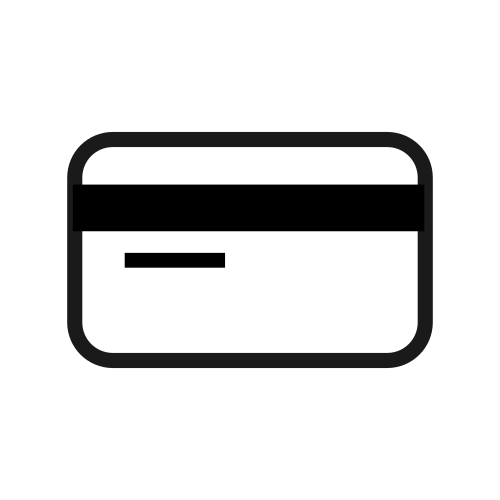
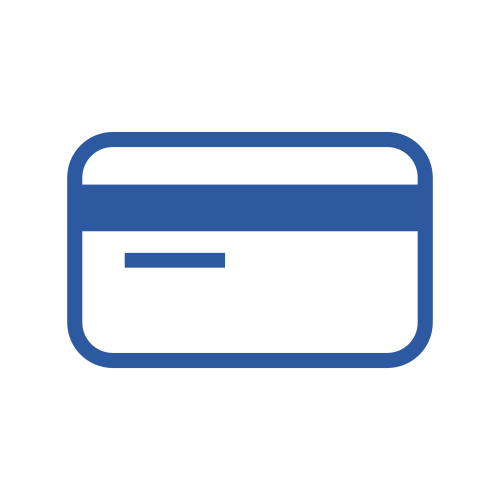
Added Changes

Changed region(s): [[0.12, 0.24, 0.87, 0.75]]

diff --git a/index.html b/index.html
@@ -13,7 +13,9 @@
 
 
             <nav class="navbar navbar-expand-lg navbar-light fixed-top bg-light">
-                    <a class="navbar-brand" href="#">Logo</a>
+                    <a class="navbar-brand" href="#">
+                      <img src="logo.png" style="width:290px"/>
+                    </a>
                     <button class="navbar-toggler" type="button" data-toggle="collapse" data-target="#navbarSupportedContent" aria-controls="navbarSupportedContent" aria-expanded="false" aria-label="Toggle navigation">
                       <span class="navbar-toggler-icon"></span>
                     </button>
@@ -49,7 +51,7 @@
                         <h1 class="tagline">Why Buy When You Can Rent</h1>
                         <div class="details-bg">
                             <p class="details">
-                                Call Us @ 999999XXXX
+                                Call Us @ 8510000005
                             </p>
                         </div>
                     </div>
@@ -57,25 +59,40 @@
 
                 <div class="statements-container">
 
-                    <h4 class="alert alert-dark p-4 m-4">For any equiry or placing order, call on : 8104855903</h4>
+                    <h4 class="alert alert-dark p-4 m-4">For any equiry or placing order, call on : <a href="tel:8510000005">8510000005</a></h4>
 
-                    <h4 class="alert alert-dark p-4 m-4">For purchasing any equipment or any surgical product : 8928335161</h4>
+                    <!-- <h4 class="alert alert-dark p-4 m-4">For purchasing any equipment or any surgical product : <a href="tel:8510000005">8510000005</a></h4> -->
 
                 </div>
 
 
 
-                <div class="product-container">
+                <div class="product-container container-fluid">
                     <h2 class="text-center pt-5" style="color:#525252">Our Product</h2>
-                    <div class="d-flex justify-content-center p-5">
-                    <div class="card" style="width: 18rem;">
-                            <img src="product_1.jpg" class="card-img-top" alt="...">
-                            <div class="card-body">
-                                <h5 class="card-title"> Dinstar GSM Gateway</h5>
-                              <p class="card-text">Some quick example text to build on the card title and make up the bulk of the card's content.</p>
-                            </div>
+                    <div class="row p-5">
+                      <div class="col-md-4 offset-md-2 d-flex justify-content-center mb-4">
+                        <div class="card" style="width: 18rem;">
+                              <img src="product_1.png" class="card-img-top" alt="...">
+                              <div class="card-body">
+                                  <h5 class="card-title text-center">GSM Gateway</h5>
+                            
+                              </div>
+                        </div>
+                      </div>
+                    
+
+                    <div class="col-md-4  d-flex justify-content-center mb-4">
+                      <div class="card" style="width: 18rem;">
+                          <img src="product_2.jpg" class="card-img-top" alt="...">
+                          <div class="card-body">
+                              <h5 class="card-title text-center">PRI Card</h5>
+                            
                           </div>
+                      </div>
                     </div>
+                </div>
+
+                  </div>
                 </div>
 
 

diff --git a/style.css b/style.css
@@ -19,7 +19,14 @@ img{
     
     /* object-fit: contain; */
 }
+.navbar{
+    padding: 0px !important;
+}
 
+.navbar a{
+    padding: 0px;
+
+}
 
 .content-container{
     margin-top:80px;
@@ -27,7 +34,7 @@ img{
 
 .tagline{
     margin:0px;
-    color:white;
+    color:#ffc273;
     padding: 20px;
     padding-top:120px;
     font-size:50px;
@@ -41,7 +48,7 @@ img{
     padding-right: 10px !important;
     padding: 5px 30px;
     color:white;
-    background:#b3750bca;
+    background:#12D1F1ca;
     border-radius: 5px;
     display: inline-block;
     font-size: 35px;
@@ -57,7 +64,7 @@ img{
 
 
 .service-container{
-    background:#3b3b3b;
+    background:#2d59a1;
 }
 
 .service-container h2{
@@ -69,9 +76,17 @@ img{
 }
 
 .service-container .card .card-body{
-    background: black !important;
+    background: #0e2345 !important;
 }
 
+.product-container .card{
+    transition-duration: 0.2s;
+}
+
+
+.product-container .card:hover{
+    transform: scale(1.05);
+}
 
 .service-container .card .card-body .card-title{
     color:white;
@@ -88,6 +103,10 @@ img{
 @media screen and (max-width:420px){
 
 
+    .content-container{
+        margin-top: 0px !important;
+    }
+
     .tagline{
         font-size: 35px;
     }
@@ -95,4 +114,13 @@ img{
     .details{
         font-size: 25px;
     }
+
+    .navbar{
+        padding-right: 10px !important;
+    }
+
+    .navbar a img{
+        width:200px !important;
+    }
+
 }
